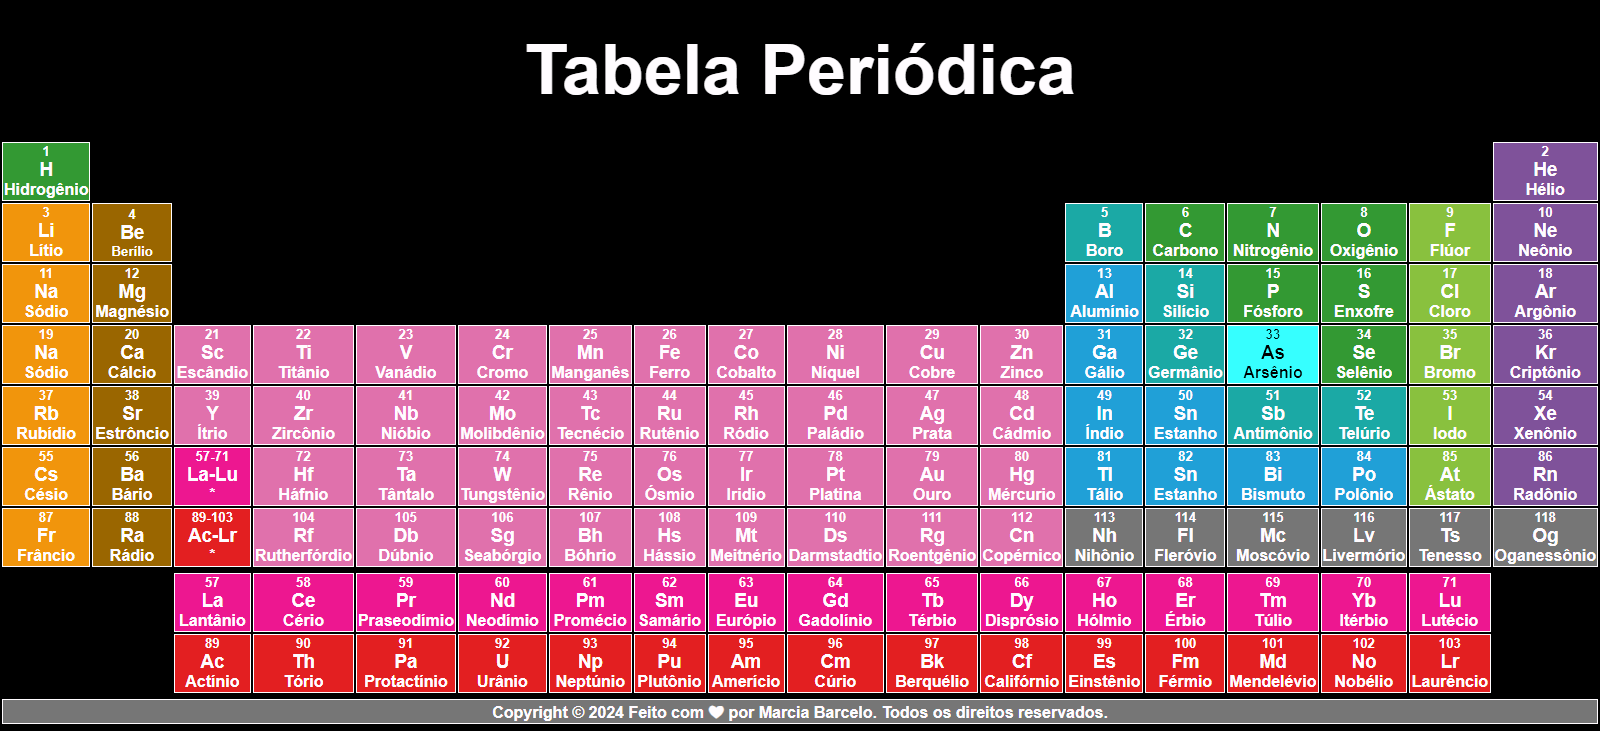
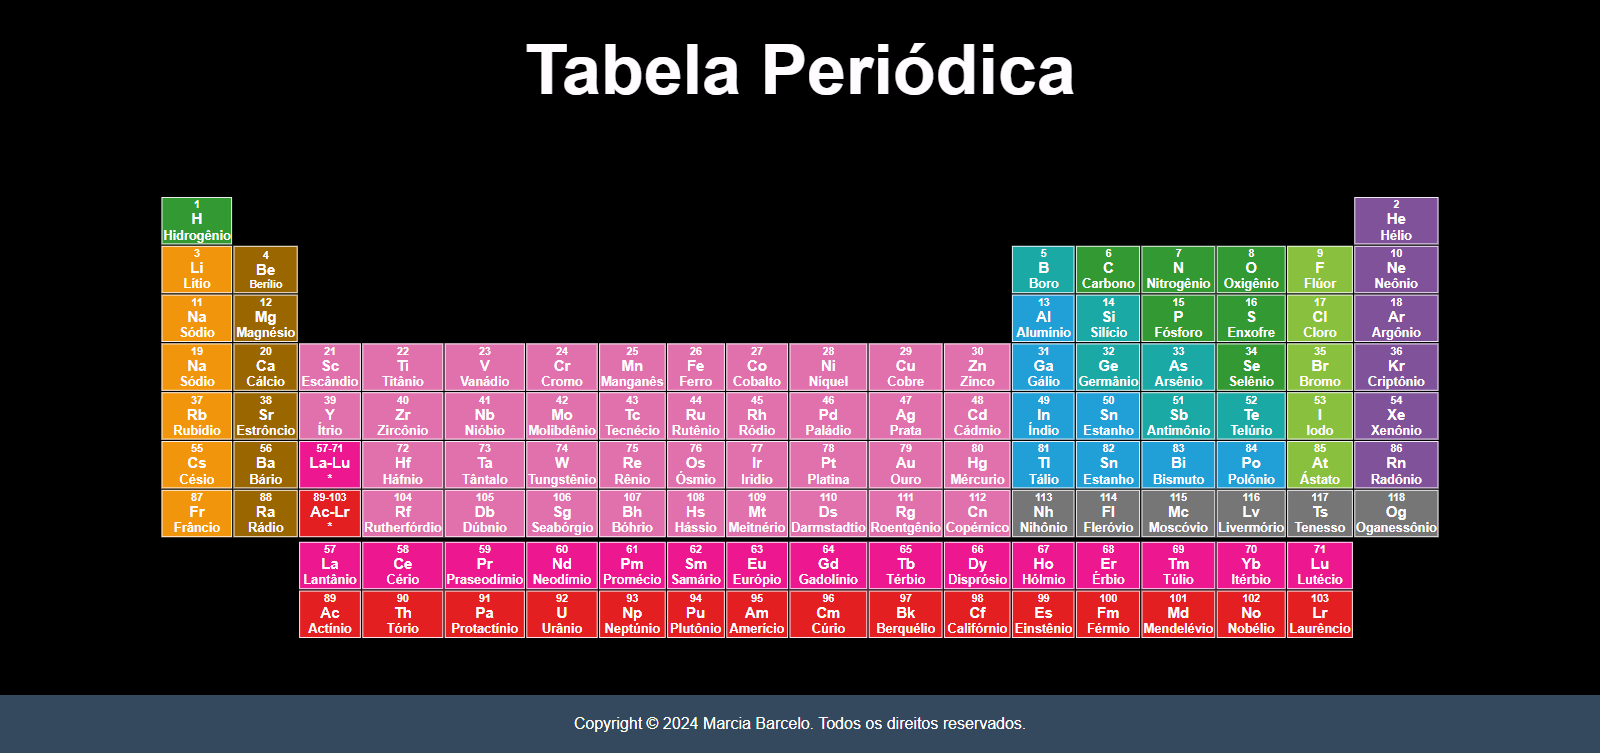
melhorando o footer

diff --git a/index.html b/index.html
@@ -651,18 +651,10 @@
             <h4>Laurêncio</h4>
           </td>
         </tr>
-
-        <tr>
-          <td class="vazia"></td>
-        </tr>
-
-        <tfoot class="altura">
-          <td colspan="18" rowspan="3" class="color11">
-            Copyright &copy; 2024 Feito com ❤ por Marcia Barcelo. Todos os
-            direitos reservados.
-          </td>
-        </tfoot>
       </table>
     </main>
+    <footer>
+      <p>Copyright &copy; 2024 Marcia Barcelo. Todos os direitos reservados.</p>
+    </footer>
   </body>
 </html>

diff --git a/styles.css b/styles.css
@@ -29,6 +29,9 @@ body {
   color: var(--cor12);
   animation: flicker 1.5s infinite alternate;
 }
+table{
+  transform: scale(80%);
+}
 
 td {
   color: var(--cor12);
@@ -105,4 +108,10 @@ td {
 td:hover {
   filter: brightness(200%);
   color: var(--cor13);
+}
+footer {
+  background-color: #34495e;
+  color: white;
+  text-align: center;
+  padding: 20px;
 }
